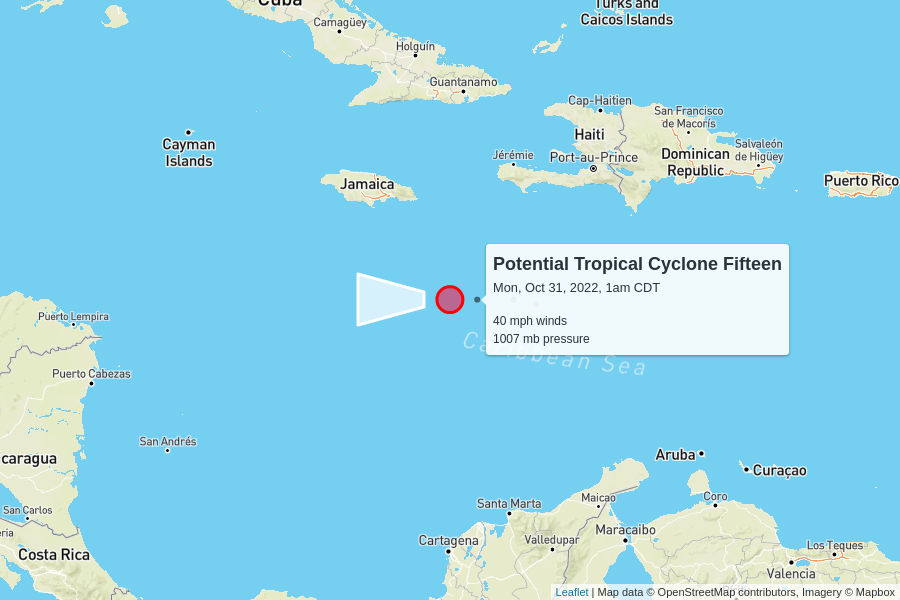
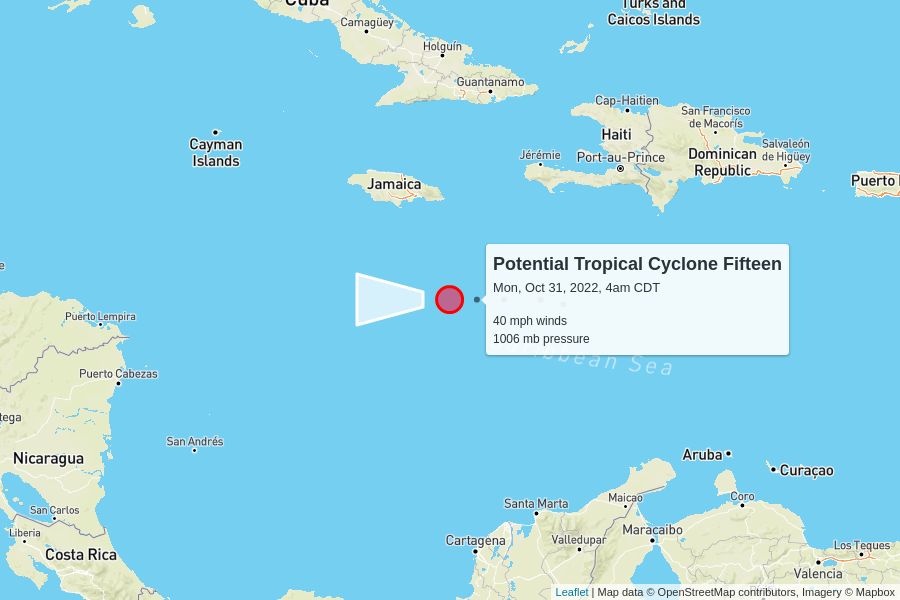
automatic update

diff --git a/docs/index.html b/docs/index.html
@@ -100,7 +100,7 @@
         <td colspan="6" class="storm category-0" >
           <h2>
             Potential Tropical Cyclone Fifteen
-            <p class="updated">last updated <span data-time>2022-10-31T06:00:00.000Z</span></p>
+            <p class="updated">last updated <span data-time>2022-10-31T09:00:00.000Z</span></p>
           </h2>
         </td>
       </tr>
@@ -116,7 +116,7 @@
       <tr>
         <td class="spacer"></td>
         <td>40 mph</td>
-        <td>1007 mb</td>
+        <td>1006 mb</td>
         <td>
           12 mph to the west
           <br/>
